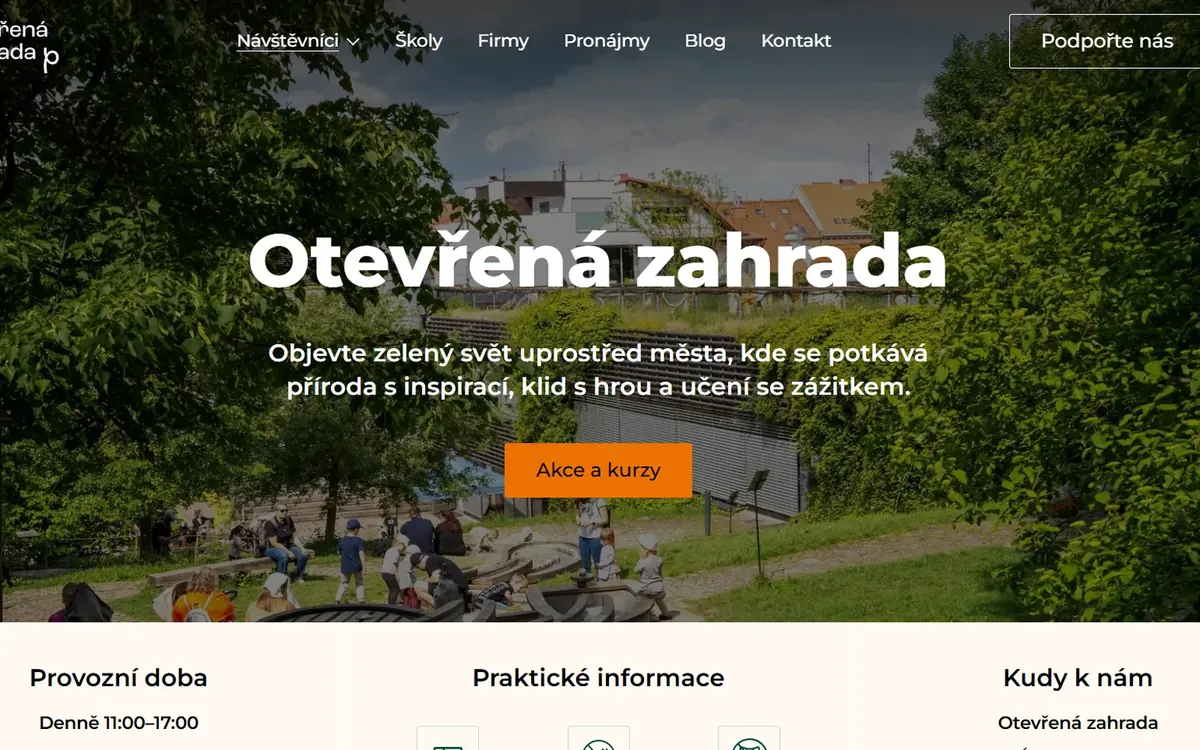
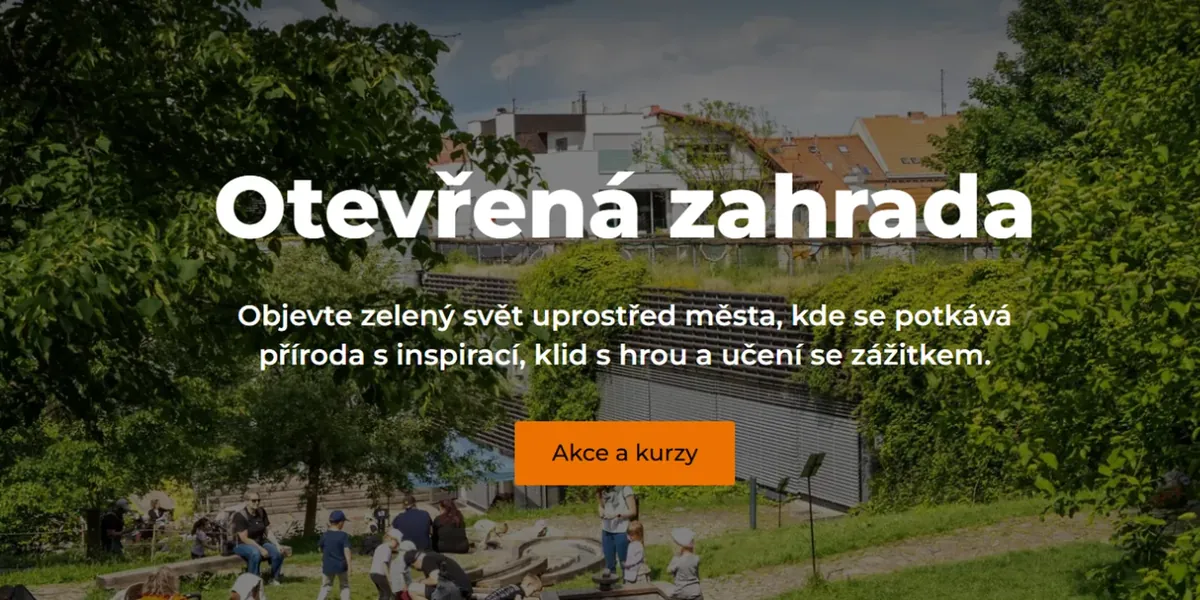
Nové screenshoty 2:1, oprava URL Otevřené zahrady, štítky neziskovka, text O mně

diff --git a/src/content/copy.ts b/src/content/copy.ts
@@ -180,7 +180,7 @@ const cs: Copy = {
     h2: 'O mně',
     lead: 'Jsem Petr. V Nadaci Partnerství pracuji jako manažer marketingových technologií a digitálního marketingu a pro další organizace nastavuji CRM, e-mailing, měření a AI.',
     p1: 'Hledám praktická řešení, která šetří čas i peníze. Co neumím, dohledám, nebo najdu nástroj, který si poradí.',
-    p2: 'Vystudoval jsem cestovní ruch, takže mě baví i smysluplné lokální projekty a destinace, třeba na Broumovsku.',
+    p2: 'Vystudoval jsem cestovní ruch, takže mě baví i smysluplné lokální projekty a destinace.',
     photoAlt: 'Petr Skřivánek',
     facts: [
       { value: '9', label: 'let v marketingu' },
@@ -310,7 +310,7 @@ const en: Copy = {
     h2: 'About me',
     lead: 'I’m Petr. At Nadace Partnerství I work as a marketing technology and digital marketing manager, and for other organisations I set up CRM, email, analytics and AI.',
     p1: 'I look for practical solutions that save time and money. What I don’t know, I look up, or I find a tool that does.',
-    p2: 'I studied tourism, so I also enjoy meaningful local projects and destinations, such as the Broumov region.',
+    p2: 'I studied tourism, so I also enjoy meaningful local projects and destinations.',
     photoAlt: 'Petr Skřivánek',
     facts: [
       { value: '9', label: 'years in marketing' },

diff --git a/src/content/projects.ts b/src/content/projects.ts
@@ -68,7 +68,7 @@ export const projects: Project[] = [
     summary: 'Vedení výroby webu od wireframu přes SEO po nastavení měření.',
     tags: ['Wireframe', 'SEO', 'Měření'],
     filters: ['nz', 'web', 'mer'],
-    url: 'https://otevrena-zahrada.cz',
+    url: 'https://otevrenazahrada.cz',
     featured: true,
     order: 2,
     screenshot: otevrenaZahrada,
@@ -104,11 +104,11 @@ export const projects: Project[] = [
   {
     slug: 'evropsky-strom-roku',
     client: 'Evropský strom roku',
-    isNonprofit: true,
+    isNonprofit: false,
     title: 'Koordinace a rozvoj projektu Nadace Partnerství',
     summary: 'Koordinace a rozvoj projektu Nadace Partnerství',
     tags: [],
-    filters: ['nz'],
+    filters: [],
     url: 'https://treeoftheyear.org',
     featured: false,
     order: 2,
@@ -116,11 +116,11 @@ export const projects: Project[] = [
   {
     slug: 'bevlava',
     client: 'Bevlava',
-    isNonprofit: false,
+    isNonprofit: true,
     title: 'Měření, reporting a UX konzultace webu turistických stezek',
     summary: 'Měření, reporting a UX konzultace webu turistických stezek',
     tags: [],
-    filters: ['mer', 'web'],
+    filters: ['nz', 'mer', 'web'],
     url: 'https://bevlava.cz',
     featured: false,
     order: 3,

diff --git a/src/site.css b/src/site.css
@@ -306,3 +306,18 @@ footer .lang-link:hover{color:#fff}
 @media (min-width:860px){
   .case.feat img.shot{object-position:center;flex:1.2 1 0;width:auto;min-width:0;height:auto;aspect-ratio:auto;min-height:380px}
 }
+
+/* Screenshoty v poměru 2:1 (podle podkladů), hlavní karta je širší, aby obrázek lícoval */
+.case img.shot{aspect-ratio:2/1;object-position:center}
+@media (min-width:860px){
+  .case.feat img.shot{flex:1.65 1 0;aspect-ratio:1.9/1;min-height:0;height:auto;align-self:stretch}
+}
+@media (min-width:860px){
+  .case.feat img.shot{flex:1.9 1 0;aspect-ratio:2/1}
+  .case.feat .body{flex:1 1 0;padding:28px 32px;gap:8px}
+  .case.feat h3{font-size:40px}
+  .case.feat .body p:not(.client){font-size:16px}
+}
+@media (min-width:860px){
+  .case.feat img.shot{object-position:8% center}
+}

diff --git a/src/components/Projects.tsx b/src/components/Projects.tsx
@@ -37,7 +37,7 @@ export default function Projects() {
             return (
               <article className={`case${i === 0 ? ' feat' : ''}`} key={proj.slug}>
                 {proj.screenshot ? (
-                  <img className="shot" src={proj.screenshot} alt={`${proj.client} – ${displayUrl(proj.url)}`} width={1200} height={750} loading="lazy" />
+                  <img className="shot" src={proj.screenshot} alt={`${proj.client} – ${displayUrl(proj.url)}`} width={1200} height={600} loading="lazy" />
                 ) : (
                   <div className="shot todo">
                     {displayUrl(proj.url)}

diff --git a/src/content/site.ts b/src/content/site.ts
@@ -4,7 +4,7 @@ export const CALENDLY_URL =
   'https://calendly.com/petr-skrivanek/3o-minut-se-skrivankem?hide_gdpr_banner=1&primary_color=1d332e'
 export const CALENDLY_PLAIN_URL = 'https://calendly.com/petr-skrivanek/3o-minut-se-skrivankem'
 
-/** E-mail převzatý z mockupu. Na starém webu žádný nebyl, potvrdit. */
+/** Kontaktní e-mail (potvrzeno). */
 export const EMAIL = 'petr.skrivanek@gmail.com'
 export const LINKEDIN = { href: 'https://www.linkedin.com/in/petrskrivanek', label: '/in/petrskrivanek' }
 export const INSTAGRAM = { href: 'https://www.instagram.com/skylarinho', label: '@skylarinho' }
